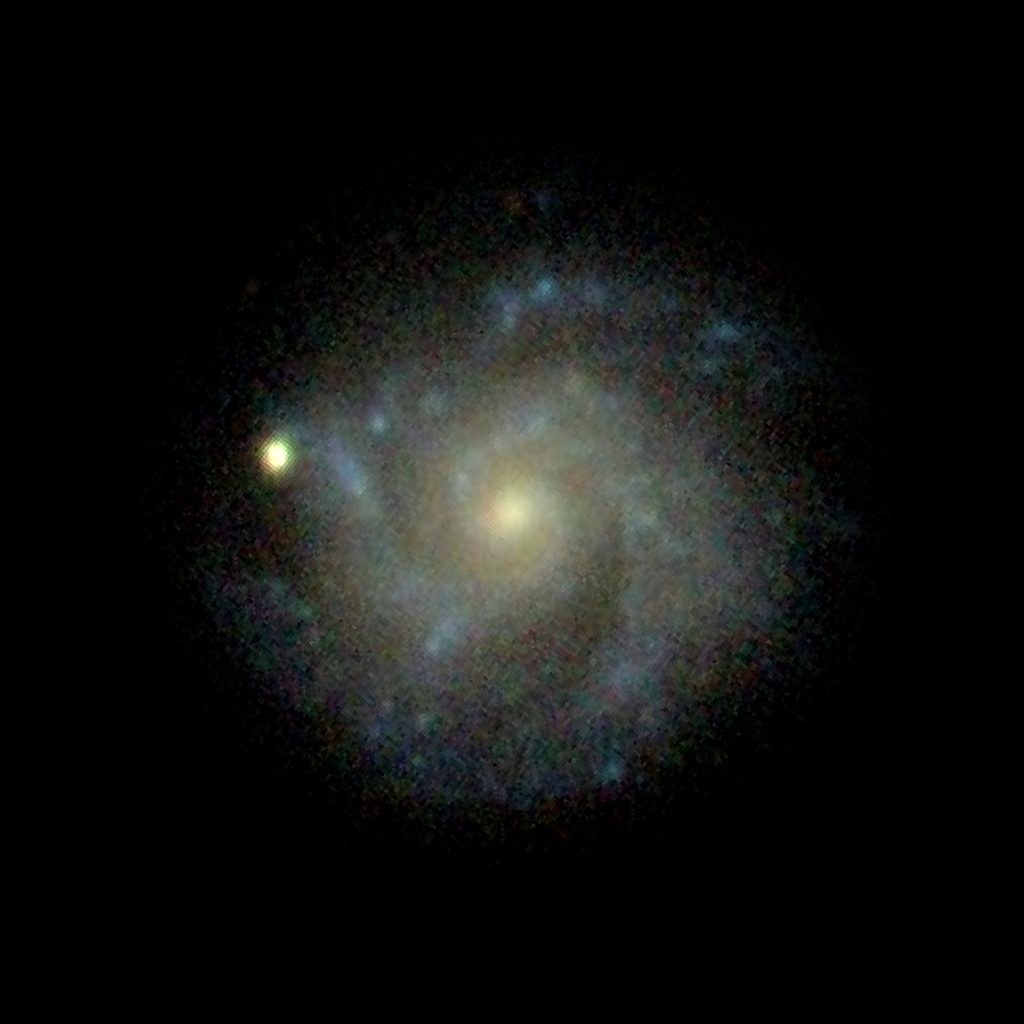
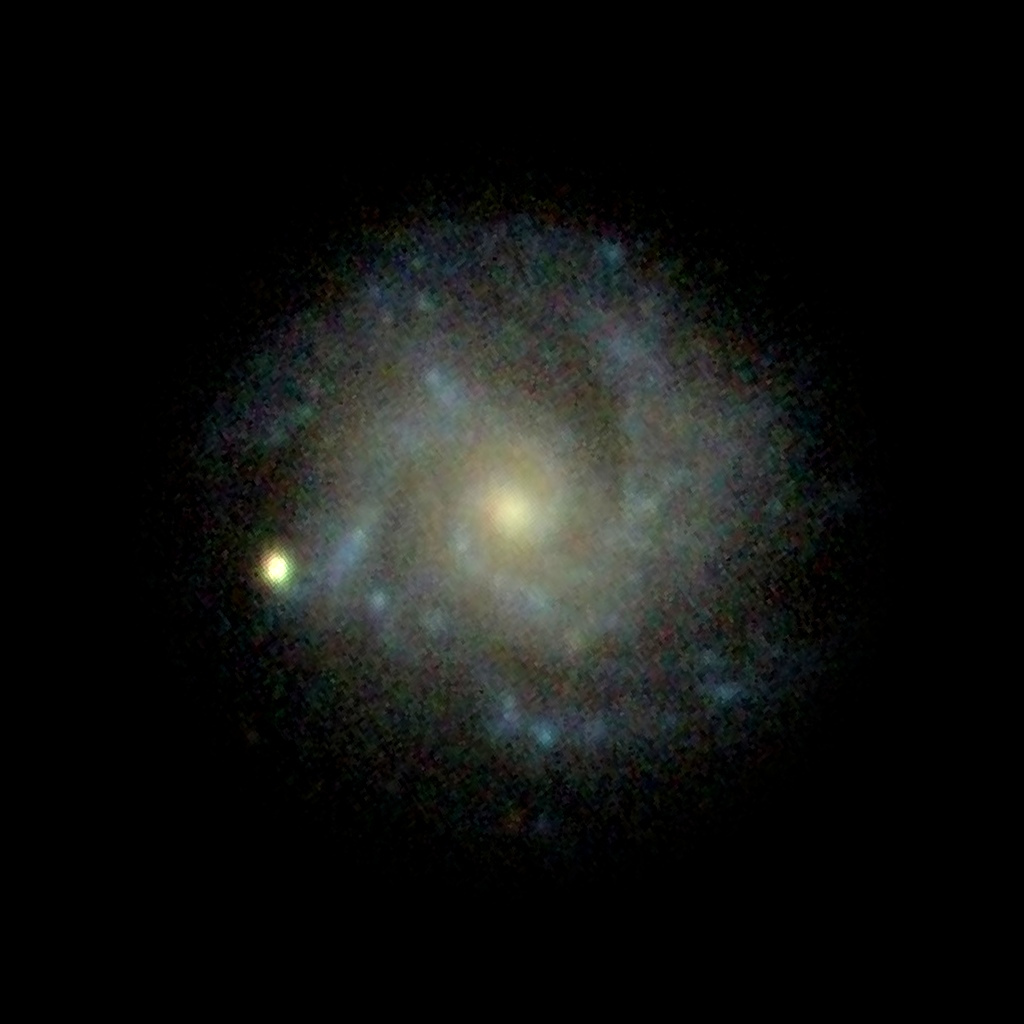
Fix Gemini's inept galaxy inclination handling.

Changed region(s): [[0.1875, 0.1875, 0.7812, 0.8125]]

diff --git a/src/visuals.cpp b/src/visuals.cpp
@@ -2267,7 +2267,7 @@ static double draw_galaxy(CelestialObject* cel, double appmag)
     }
 
     double pa = g->position_angle;
-    double incl = g->inclination;
+    double incl = g->inclination + _pi;
 
     // Major axis direction on the sky from North through East
     Point u_maj = N_sky * cos(pa) + E_sky * sin(pa);
